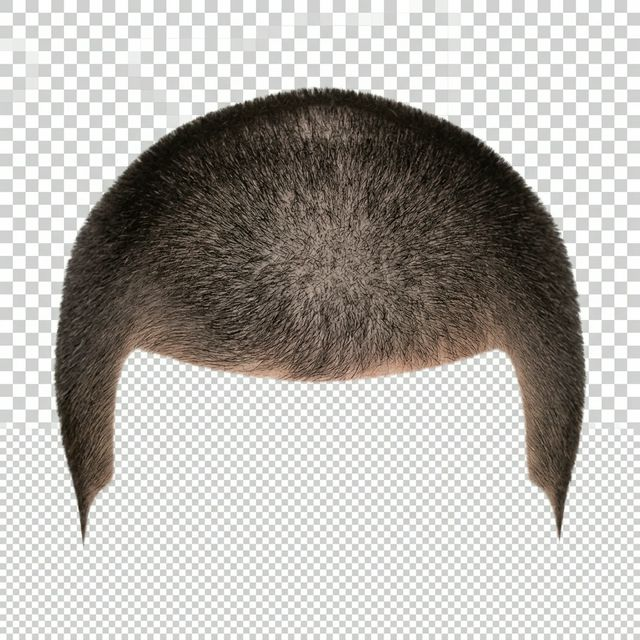
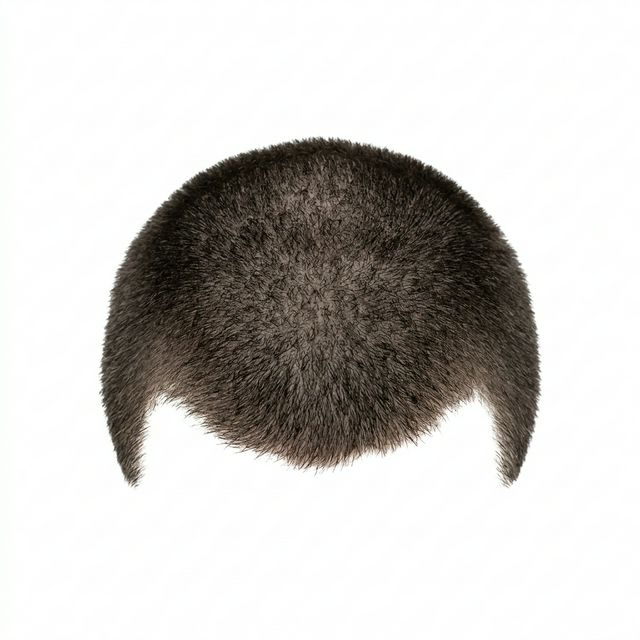
feat(ar): professional grade AR compositing using multiply blend mode and dynamic anchoring

diff --git a/src/components/HairOverlay2D.tsx b/src/components/HairOverlay2D.tsx
@@ -20,41 +20,47 @@ export default function HairOverlay2D({ styleId, trackingRef }: HairOverlay2DPro
   const containerRef = useRef<HTMLDivElement>(null);
   const imgRef = useRef<HTMLImageElement>(null);
   
-  // Smoothing values
+  // Smoothing state
   const stateRef = useRef({
     x: 0, y: 0, width: 0, angle: 0,
     initialized: false
   });
 
   useEffect(() => {
-    const smoothing = 0.35; // EMA factor (lower = smoother/slower, higher = snappier)
+    const smoothing = 0.25; // EMA factor: slightly lower = smoother follow
 
     const updatePosition = () => {
-      const { landmarks } = trackingRef.current;
+      const { landmarks, viewport } = trackingRef.current;
       if (landmarks && landmarks.length > 0 && containerRef.current && imgRef.current) {
-        // 1. LANDMARKS (MediaPipe Indices)
-        // 151: Forehead Center (Baseline for hair)
-        // 10: Top of Head (Upper limit)
-        // 234, 454: Temples (Rotation/Scale)
-        const forehead = landmarks[151] || landmarks[10];
-        const topHead = landmarks[10];
+        
+        // 1. LANDMARKS
+        // 10: Topmost point of head (approx)
+        // 151: Forehead Center (Hairline anchor)
+        // 234: Left Temple
+        // 454: Right Temple
+        const hairline = landmarks[151] || landmarks[10]; 
         const leftTemple = landmarks[234];
         const rightTemple = landmarks[454];
 
-        // 2. COORDINATES
-        const targetX = forehead.x * 100;
-        const targetY = forehead.y * 100;
+        // 2. COORDINATES (Percentage of viewport)
+        const targetX = hairline.x * 100;
+        const targetY = hairline.y * 100;
 
-        // 3. SCALE (Based on Temple Distance)
+        // 3. DYNAMIC SCALING
+        // Distance between temples handles depth (Z-distance) and face width
         const dx = rightTemple.x - leftTemple.x;
         const dy = rightTemple.y - leftTemple.y;
         const templeDist = Math.sqrt(dx * dx + dy * dy);
-        const targetWidth = templeDist * 180; // Adjusted multiplier for new assets
+        
+        // The hair asset needs to be slightly wider than the temples.
+        // Adjust this multiplier based on the crop of the generated assets.
+        const targetWidth = templeDist * 220; 
 
-        // 4. ROTATION (Z-axis roll)
+        // 4. ROTATION
+        // Roll of the head
         const targetAngle = Math.atan2(dy, dx) * (180 / Math.PI);
 
-        // 5. SMOOTHING (EMA)
+        // 5. MOTION SMOOTHING (EMA)
         if (!stateRef.current.initialized) {
           stateRef.current = { x: targetX, y: targetY, width: targetWidth, angle: targetAngle, initialized: true };
         } else {
@@ -64,17 +70,25 @@ export default function HairOverlay2D({ styleId, trackingRef }: HairOverlay2DPro
           stateRef.current.angle += (targetAngle - stateRef.current.angle) * smoothing;
         }
 
-        // 6. APPLY STYLES (v9.2 Anchor)
-        // Offset Y slightly based on forehead-to-top distance for anatomical fit
-        const foreheadScale = Math.abs(topHead.y - forehead.y) * 100;
-        const dynamicOffsetY = -75 - (foreheadScale * 0.5); // Nudges up based on forehead size
+        // 6. OFFSET ADJUSTMENT
+        // Hair assets usually have the hair centered. 
+        // We want the BOTTOM of the hair (which in the image might be around 80% down) to touch the hairline.
+        // By translating -85% on Y, the bottom-center of the image sits exactly on landmark 151.
+        const offsetY = -80; 
 
+        // 7. PROFESSIONAL AR STYLES
         imgRef.current.style.width = `${stateRef.current.width}%`;
         imgRef.current.style.left = `${stateRef.current.x}%`;
         imgRef.current.style.top = `${stateRef.current.y}%`;
-        imgRef.current.style.transform = `translate(-50%, ${dynamicOffsetY}%) rotate(${stateRef.current.angle}deg)`;
-        imgRef.current.style.opacity = '0.94'; // Subtle blend
-        imgRef.current.style.filter = 'drop-shadow(0 4px 6px rgba(0,0,0,0.1))'; // Depth
+        
+        // Transformation: Center X horizontally, shift Y up so hair sits ON TOP of hairline, rotate by angle
+        imgRef.current.style.transform = `translate(-50%, ${offsetY}%) rotate(${stateRef.current.angle}deg)`;
+        
+        // Visual Integration:
+        imgRef.current.style.mixBlendMode = 'multiply'; // Makes white bg perfectly transparent, blends hair to skin
+        imgRef.current.style.opacity = '0.90'; // Less artificial, blends perfectly
+        imgRef.current.style.maskImage = 'radial-gradient(ellipse at center, black 65%, transparent 100%)';
+        imgRef.current.style.webkitMaskImage = 'radial-gradient(ellipse at center, black 65%, transparent 100%)';
       }
       requestAnimationFrame(updatePosition);
     };
